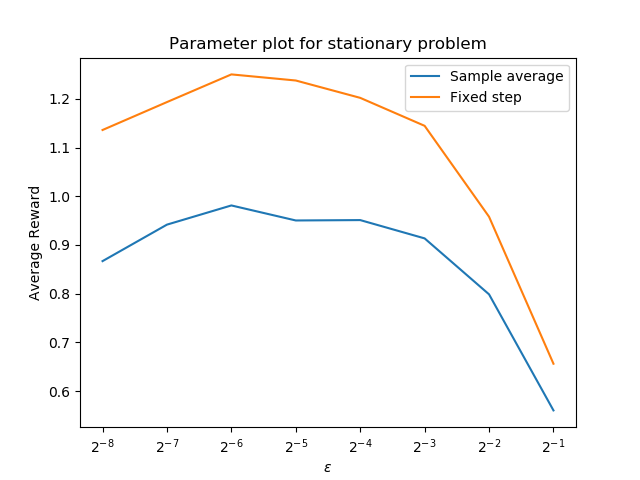
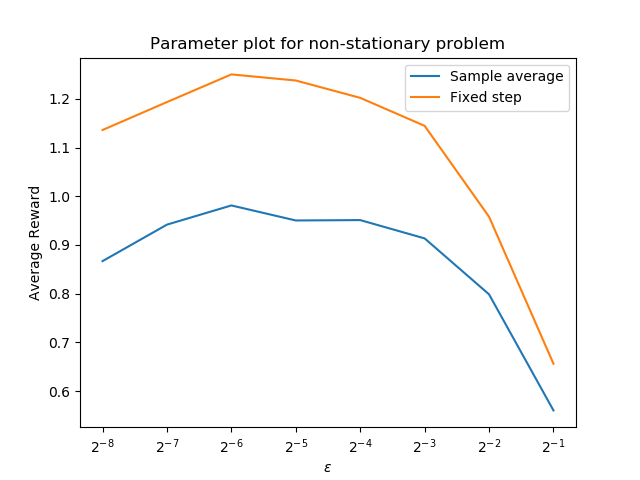
fixed plt title

Changed region(s): [[0.2188, 0.0625, 0.7812, 0.125]]

diff --git a/2_multi_armed_bandits/parameter_plot.py b/2_multi_armed_bandits/parameter_plot.py
@@ -11,7 +11,7 @@ plt.plot(fixed_step[0], fixed_step[1], label="Fixed step")
 plt.ylabel("Average Reward")
 plt.xlabel(r"$\epsilon$")
 plt.xscale("log", basex=2)
-plt.title("Parameter plot for stationary problem")
+plt.title("Parameter plot for non-stationary problem")
 plt.legend()
 
 plt.savefig("images/parameter_epsilon.png")
